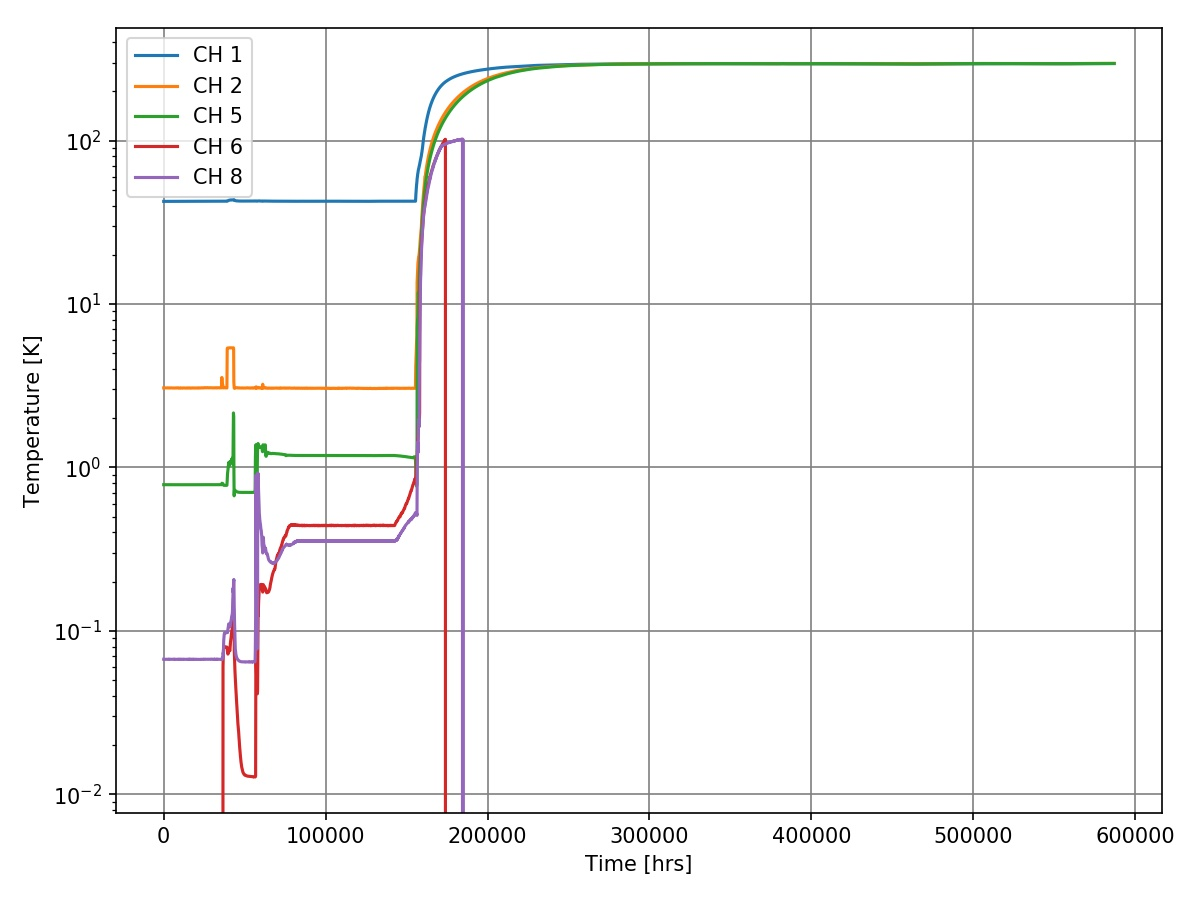
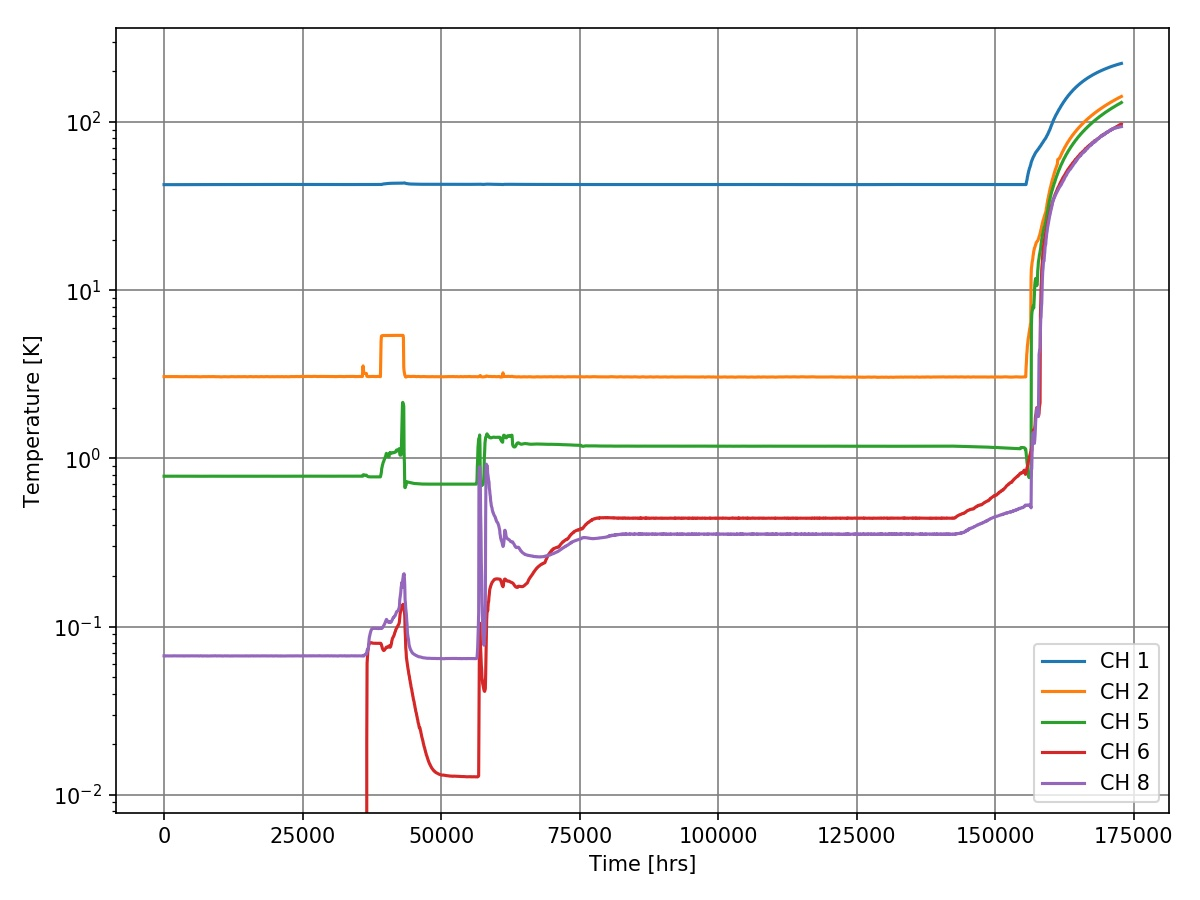
Adding cal curve data

Changed region(s): [[0.0308, 0.0311, 0.9867, 0.9333], [0.4625, 0.8711, 0.74, 0.9644]]

diff --git a/bluefors_utils.py b/bluefors_utils.py
@@ -50,7 +50,7 @@ class bluefors():
 ###############################################################################
 ###############################################################################
 ###############################################################################
-    def bluefors_mashup(self, bluefors_log_path = '/home/arnoldlabws2/ArnoldLab_DRData', start_folder = '18-03-20', stop_folder = '18-03-22', plot_data = True):
+    def bluefors_mashup(self, bluefors_log_path, start_folder, stop_folder, plot_data = True):
         '''
         - if 'start_folder' and 'stop_folder' are left as 'None' this takes all BF data folders (one per date)
           in 'bluefors_log_path' and concatenates their data into dictionairies 'R_data' and 'T_data'.
@@ -60,6 +60,11 @@ class bluefors():
           'start_folder' to the mashup party
         - oh, and you also get a sensible unix timestamp which is constructed in 'brutalize_bluefors_log', wooo!
         '''
+
+
+        self.bluefors_log_path = bluefors_log_path
+        self.start_folder = start_folder
+        self.stop_folder = stop_folder
 
         # would be good to add functionality to detect which channels are actually active...
         # but we're not here for that fancy stuff, brute force baby!
@@ -77,14 +82,10 @@ class bluefors():
             T_data[ch] = {}
 
         # here we build a list of all the data files and their date folders that will get the mashup treatment
-        bluefors_log_path = '/home/arnoldlabws2/ArnoldLab_DRData/bluefors_temp_logs_raw'
-        #bluefors_log_path = '/Users/joeseibert/Google Drive UCSD/Research/ArnoldLab_DRData'
+
         folders = os.listdir(bluefors_log_path)
         folders = sorted(folders)
 
-
-        start_folder = '18-03-22'
-        stop_folder = '18-03-28'
 
         if start_folder != None and stop_folder == None:
 
@@ -170,7 +171,7 @@ class bluefors():
 #################################################################################
 #################################################################################
 #################################################################################
-    def load_bluefors_cal(self, bluefors_calpath = '/home/arnoldlabws2/ArnoldLab_DRData/sensors/', bluefors_calfiles = ['R10250.340'], plot_calibrations = True):
+    def load_bluefors_cal(self, bluefors_calpath, bluefors_calfiles, plot_calibrations = True):
         '''
         - pretty self-explanatory...saves a plot if you want it to...
         - should work well if you want to specify multiple files if done correctly
@@ -217,7 +218,7 @@ class bluefors():
 #################################################################################
 #################################################################################
 #################################################################################
-    def align_standard_and_uncal_data(bluefors_calpath, bluefors_calfiles, mashed_bluefors_data, bluefors_standard_channel,
+    def align_standard_and_uncal_data(self,bluefors_calpath, bluefors_calfiles, mashed_bluefors_data, bluefors_standard_channel,
                                       srs_datafile_fullpath_fullpath, mintemp, maxtemp, all_plots = True):
         '''
         - "master" function to make cal files. identifies measured points closest to the points in the standard's calibraiton file
@@ -234,7 +235,8 @@ class bluefors():
         '''
 
         # load the BF calibration for the sensor we will use as our standard
-        standard_calibration = load_bluefors_cal(bluefors_calpath, bluefors_calfiles)
+        standard_calibration = self.load_bluefors_cal(bluefors_calpath, bluefors_calfiles)
+        standard_calibration = standard_calibration[bluefors_calfiles[0]]
 
         R_data = mashed_bluefors_data['R']
         T_data = mashed_bluefors_data['T']
@@ -299,7 +301,7 @@ class bluefors():
         plt.title('Selected Points: Entire Run')
         plt.grid(color = '.5')
         plt.tight_layout()
-        plt.show()
+        #plt.show()
         plt.savefig('full_run_and_selected_points_all.jpg', dpi = 150)
 
         # this helps the script chop the data into 3 regimes: all of it, cooldown only, and warmup only
@@ -480,7 +482,7 @@ class bluefors():
 
         # this assumes you were smart enough to setup the SRS so that the column headers are the serial
         # numbers of the uncalibrated sensors...
-        srs_sensor_names = lc.getline(srs_datafile_fullpath, 4).rstrip()
+        srs_sensor_names = lc.getline(srs_datafile_fullpath_fullpath, 4).rstrip()
         srs_sensor_names = np.array(srs_sensor_names.split(','))[1:]
 
         # now we need to find where the SRS timestamp coincides with the BF timestamp for the data selected
@@ -513,6 +515,7 @@ class bluefors():
         plt.legend(framealpha = 1)
         plt.grid(color = '.5')
         plt.tight_layout()
+        plt.savefig('test_entire.jpg',dpi=150)
 
         # COOLDOWN
         minindices_cooldown = []
@@ -540,6 +543,7 @@ class bluefors():
         plt.legend(framealpha = 1)
         plt.grid(color = '.5')
         plt.tight_layout()
+        plt.savefig('test_cooldown.jpg',dpi=150)
 
         # WARMUP
         minindices_warmup = []
@@ -567,6 +571,7 @@ class bluefors():
         plt.legend(framealpha = 1)
         plt.grid(color = '.5')
         plt.tight_layout()
+        plt.savefig('test_warmup.jpg',dpi=150)
 
         # pack up the data
         data_all = {'valid_T': valid_T_data_all,
@@ -609,13 +614,17 @@ class bluefors():
 ################################################################################
 ################################################################################
 ################################################################################
-    def create_cal_file(aligned_data, data_subset, smooth_data = True, filter_box = 21, filter_order = 2, plot_cal_curves = True):
+    def create_cal_file(self,aligned_data, data_subset, smooth_data = True, filter_box = 21, filter_order = 2, plot_cal_curves = True):
         '''
         - this uses the data from 'align_standard_and_uncal_data' to create the calibration file
         - 'data_subset' can take values 'all', 'cooldown', or 'warmup', to  specify which slicing you want
         - if 'smooth_data = True' this applies a Savitzky-Golay filter of width 'filter_box' (must be odd)
           and order 'filter_order'
         '''
+
+
+        self.data_subset = data_subset
+        self.aligned_data = aligned_data
 
         data = aligned_data[data_subset]
         sensor_names = data['srs_sensor_names']
@@ -653,10 +662,13 @@ class bluefors():
             plt.legend(framealpha = 1)
             plt.grid(color = '.5')
             plt.tight_layout()
-            plt.savefig(now()[:9] + '_{}_cal_curve.jpg'.format(sensor_names[i]), dpi = 150)
+            #plt.savefig(now()[:9] + '_{}_cal_curve.jpg'.format(sensor_names[i]), dpi = 150)
+            plt.savefig('{}_cal_curve.jpg'.format(sensor_names[i]), dpi = 150)
 
-            header = sensor_names[i] + ' calibration file, created ' + now() + '\nTemperature\tResistance\n\t\t[K]\t\t\t\t[Ohms]\n'
-            new_cal_data = np.flipud(np.transpose(np.array([data['uncal_T'], new_R_cal])))
-            np.savetxt(now()[:9] + '_{}_cal.txt'.format(sensor_names[i]), new_cal_data, header = header, fmt = '%.8e')
+            #header = sensor_names[i] + ' calibration file, created ' + now() + '\nTemperature\tResistance\n\t\t[K]\t\t\t\t[Ohms]\n'
+            #new_cal_data = np.flipud(np.transpose(np.array([data['uncal_T'], new_R_cal])))
+            #np.savetxt(now()[:9] + '_{}_cal.txt'.format(sensor_names[i]), new_cal_data, header = header, fmt = '%.8e')
+            #np.savetxt('test_cal.txt', new_cal_data, header = header, fmt = '%.8e')
+
 
         return cal_data

diff --git a/make_temp_plots.py b/make_temp_plots.py
@@ -3,6 +3,25 @@ import numpy as np
 
 bf = bluefors()
 
-#data = bf.bluefors_mashup()
+bluefors_log_path = '/home/arnoldlabws2/ArnoldLab_DRData/bluefors_temp_logs_raw'
+#bluefors_log_path = '/Users/joeseibert/Google Drive UCSD/Research/ArnoldLab_DRData'
 
-blueforstemp = bf.load_bluefors_cal()
+bluefors_data_start = '18-03-22'
+bluefors_data_stop = '18-03-23'
+
+bluefors_calpath = '/home/arnoldlabws2/ArnoldLab_DRData/sensors/'
+bluefors_calfiles = ['R10250.340']
+bluefors_standard_channel = 6
+
+srs_datafile = '/home/arnoldlabws2/ArnoldLab_DRData/180321_dr_thermo_cal/Data/20180322-144740RAW.txt'
+
+
+mashed_bluefors_data = bf.bluefors_mashup(bluefors_log_path,bluefors_data_start,bluefors_data_stop)
+
+bluefors_cal_data = bf.load_bluefors_cal(bluefors_calpath,bluefors_calfiles)
+
+
+
+aligned_data = bf.align_standard_and_uncal_data(bluefors_calpath,bluefors_calfiles,mashed_bluefors_data,bluefors_standard_channel,srs_datafile,0.0,100.0)
+
+cal_data = bf.create_cal_file(aligned_data,'all')
